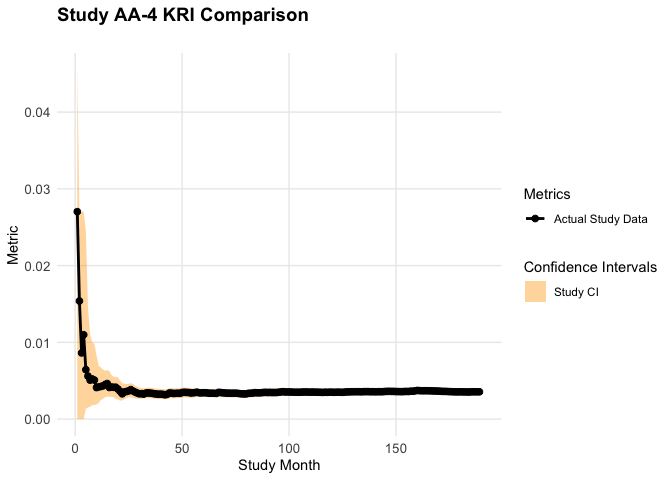
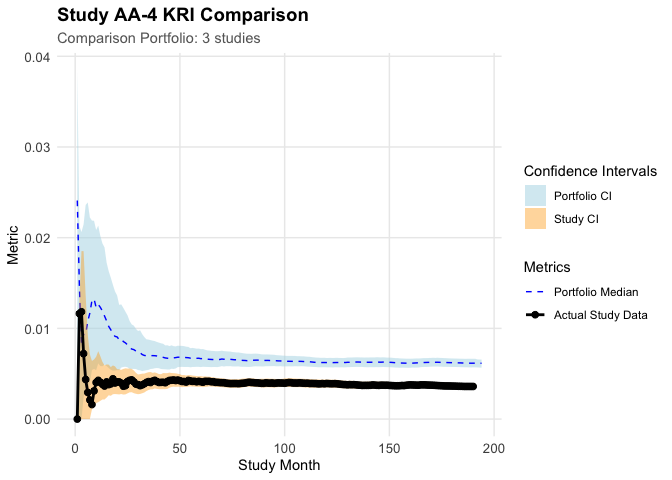
improved README

diff --git a/README.md b/README.md
@@ -45,19 +45,8 @@ library(gsm.studykri)
 
 # Load raw data from clindata package
 lRaw <- list(
-  Raw_SITE = clindata::ctms_site,
-  Raw_STUDY = clindata::ctms_study,
-  Raw_PD = clindata::ctms_protdev,
-  Raw_DATAENT = clindata::edc_data_pages,
-  Raw_QUERY = clindata::edc_queries,
   Raw_AE = clindata::rawplus_ae,
-  Raw_SUBJ = clindata::rawplus_dm,
-  Raw_ENROLL = clindata::rawplus_enroll,
-  Raw_Randomization = clindata::rawplus_ixrsrand,
-  Raw_LB = clindata::rawplus_lb,
-  Raw_SDRGCOMP = clindata::rawplus_sdrgcomp,
-  Raw_STUDCOMP = clindata::rawplus_studcomp,
-  Raw_VISIT = clindata::rawplus_visdt
+  Raw_SUBJ = clindata::rawplus_dm
 )
 
 # Simulate portfolio with 4 studies, AA-4 oversampled for low AE counts
@@ -118,9 +107,21 @@ df_Bounds <- Analyze_StudyKRI_PredictBounds(
   nConfLevel = 0.95
 ) %>% tibble()
 
-# Plot KRI over time with confidence intervals for study AA-4
+# Calculate reference portfolio bounds from studies AA-1, AA-2, AA-3
+# Reference bounds equalize site counts across studies for fair comparison
+df_Bounds_Ref <- dfInputDays %>%
+  Analyze_StudyKRI_PredictBoundsRefSet(
+    vStudyFilter = c("AA-1", "AA-2", "AA-3"),
+    nBootstrapReps = 1000,
+    nConfLevel = 0.95,
+    nMinDenominator = 25
+  ) %>% tibble()
+#> Resampling with minimum group count: 71
+
+# Plot AA-4 KRI vs reference portfolio confidence intervals
 Visualize_StudyKRI(
   dfStudyKRI = dfTransformed,
+  dfBoundsRef = df_Bounds_Ref,
   dfBounds = df_Bounds,
   strStudyID = "AA-4"
 )
